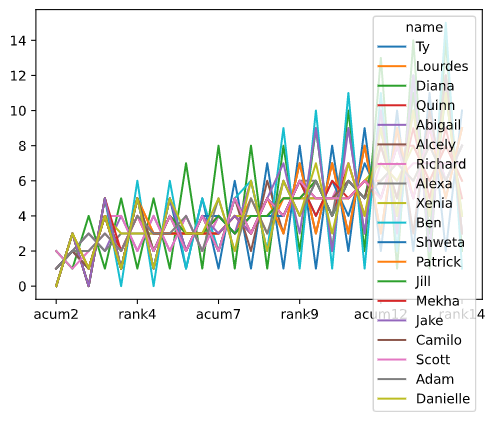
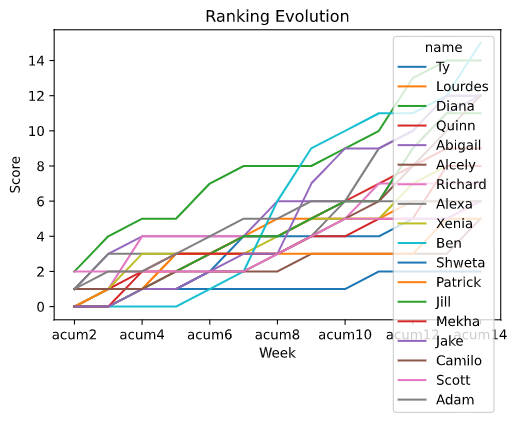
Finally the ranking evolution chart

Changed region(s): [[0.0, 0.0, 1.0, 0.9881]]

diff --git a/evaluation_scripts/RankingEvolution.py b/evaluation_scripts/RankingEvolution.py
@@ -1,5 +1,5 @@
-# This script calcualtes the total scores for everyone using
-# the summary outputs from the score_weekly.py
+# This script calculates the evolution of the ranking for everyone and getting\
+# a CSV and a plot of the ranking evolution
 
 # %%
 import pandas as pd
@@ -88,8 +88,8 @@ print(scoreboard)
 
 # %%
 # NOTE: Update the number of the week
-# Xenias early morning
-# I need a BIG help woth for loops D:
+# Xenias Week 14 addition
+# I need a BIG help with for loops D:
 
 Points2 = score_weekly['fcst2_1wk'] + score_weekly['fcst2_2wk'] + score_weekly['fcst2_bonus']
 Points3 = score_weekly['fcst3_1wk'] + score_weekly['fcst3_2wk'] + score_weekly['fcst3_bonus']
@@ -210,17 +210,21 @@ filetemp = os.path.join('../weekly_results', fname)
 rank_evol14.to_csv(filetemp, index_label='name')
 
 # %%
-# Plot ranking evolution
-
-rank_evol14.plot(subplots=False)
-plt.tight_layout()
-plt.show()
-
-# %%
+# Ploting the rank evolution, but it does not seems ok.
 rank_evol14.plot()
 
 # %%
+# Creating the transpose of the ranking evolution dataframe to plot it better
 rank_evol14T = rank_evol14.T
-rank_evol14T.plot()
+
+# Selecting the 'y' values between the name of students
+
+y = ['Ty','Lourdes','Diana','Quinn','Abigail','Alcely','Richard','Alexa',
+    'Xenia','Ben','Shweta','Patrick','Jill','Mekha','Jake','Camilo','Scott',
+    'Adam']
+
+rank_evol14T.iloc[0::2].plot(y=y, title='Ranking Evolution', xlabel='Week',\
+                             ylabel='Score')
+plt.show()
 
 # %%
